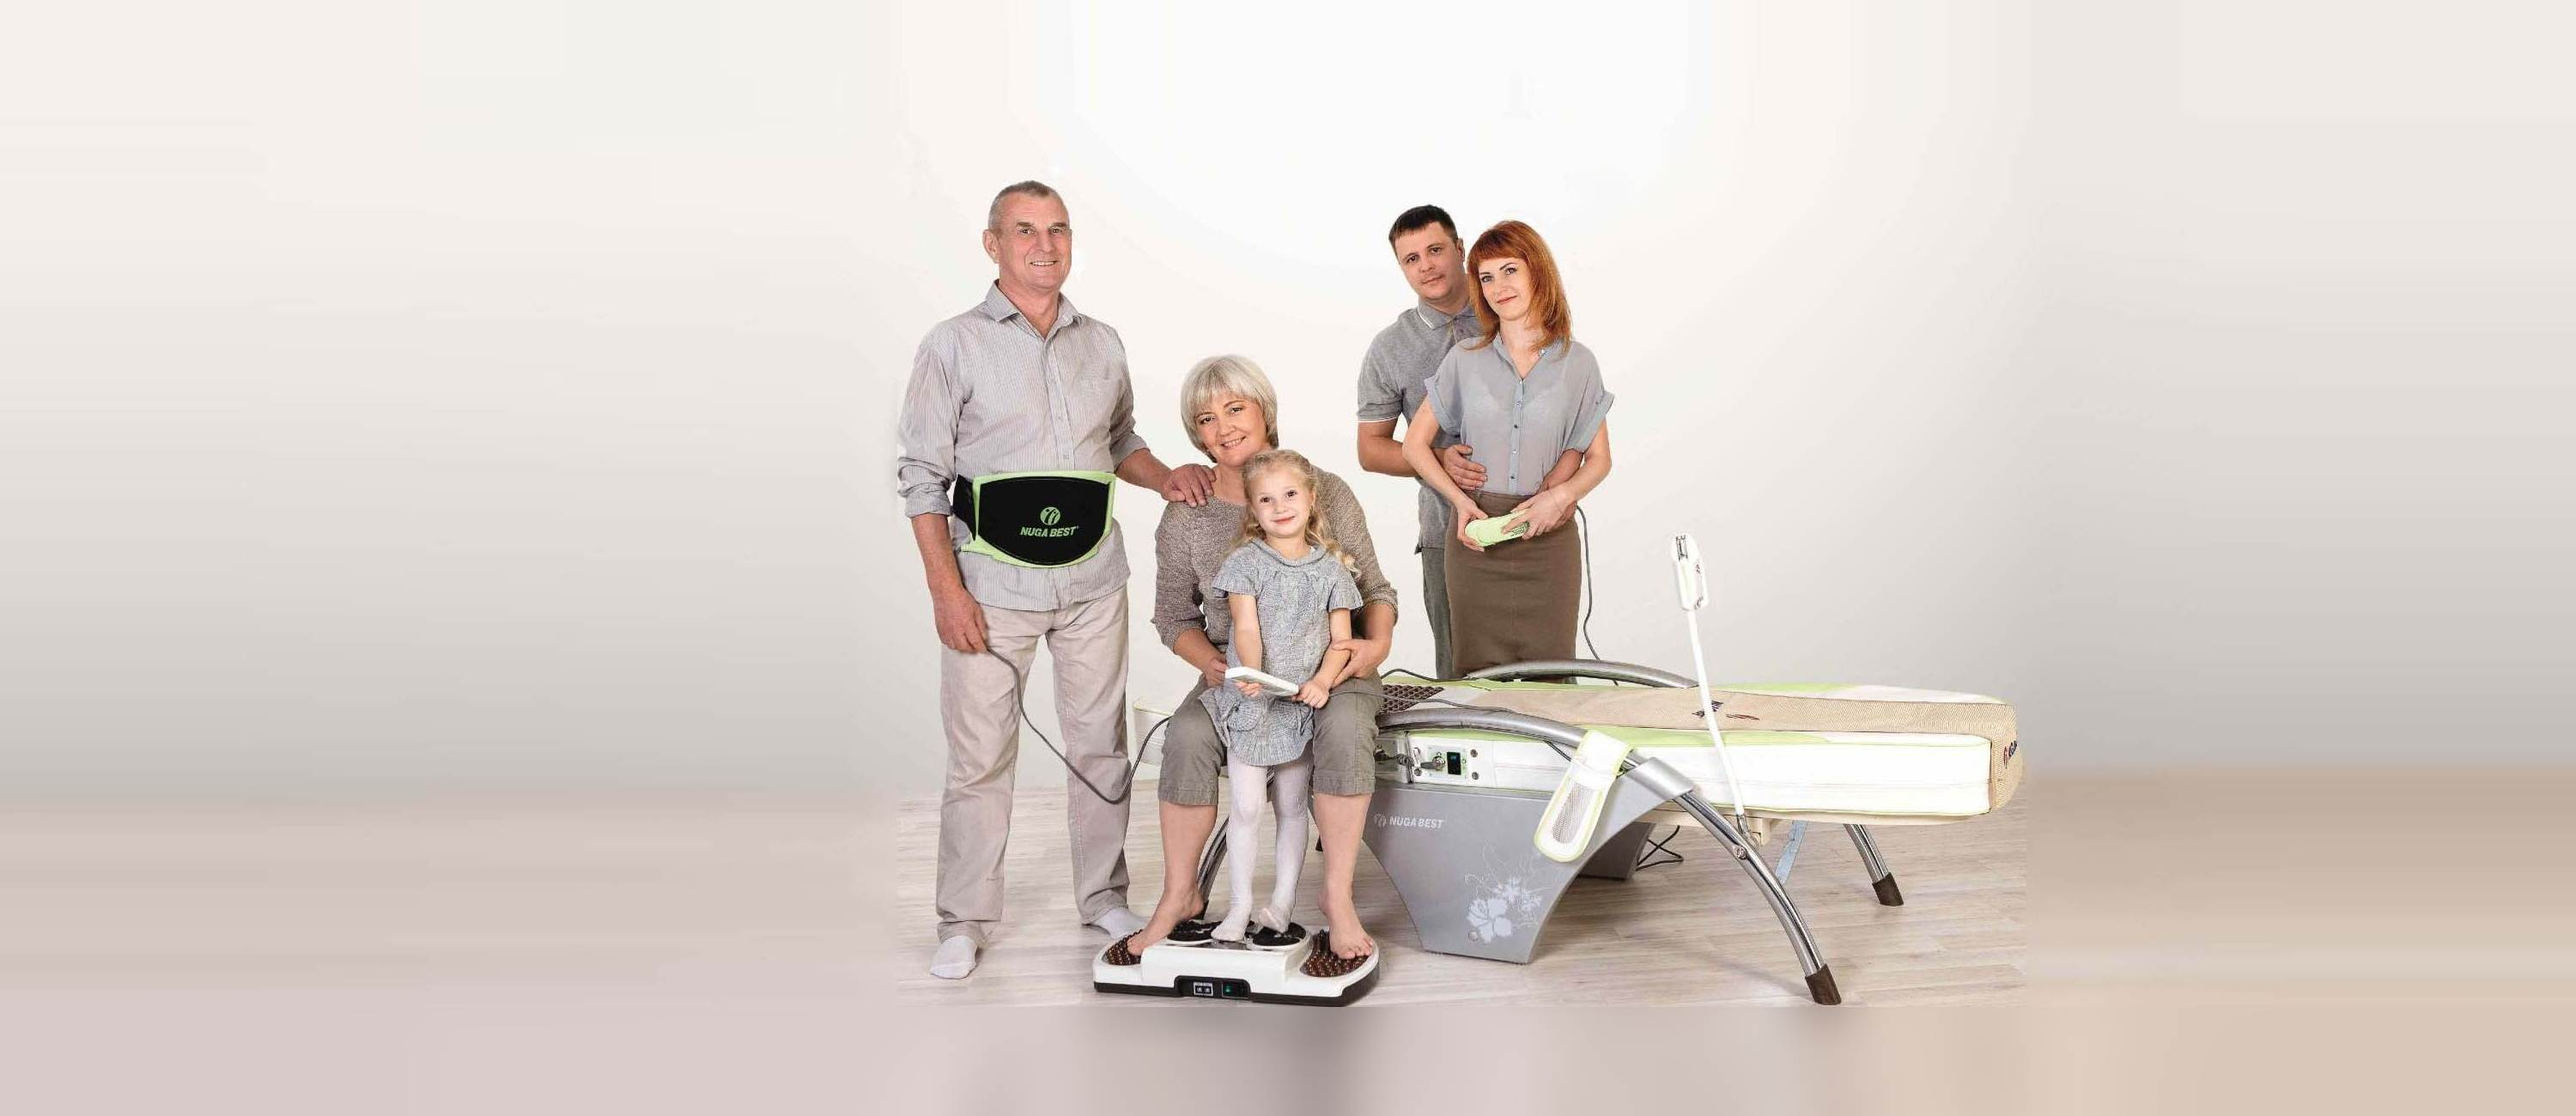
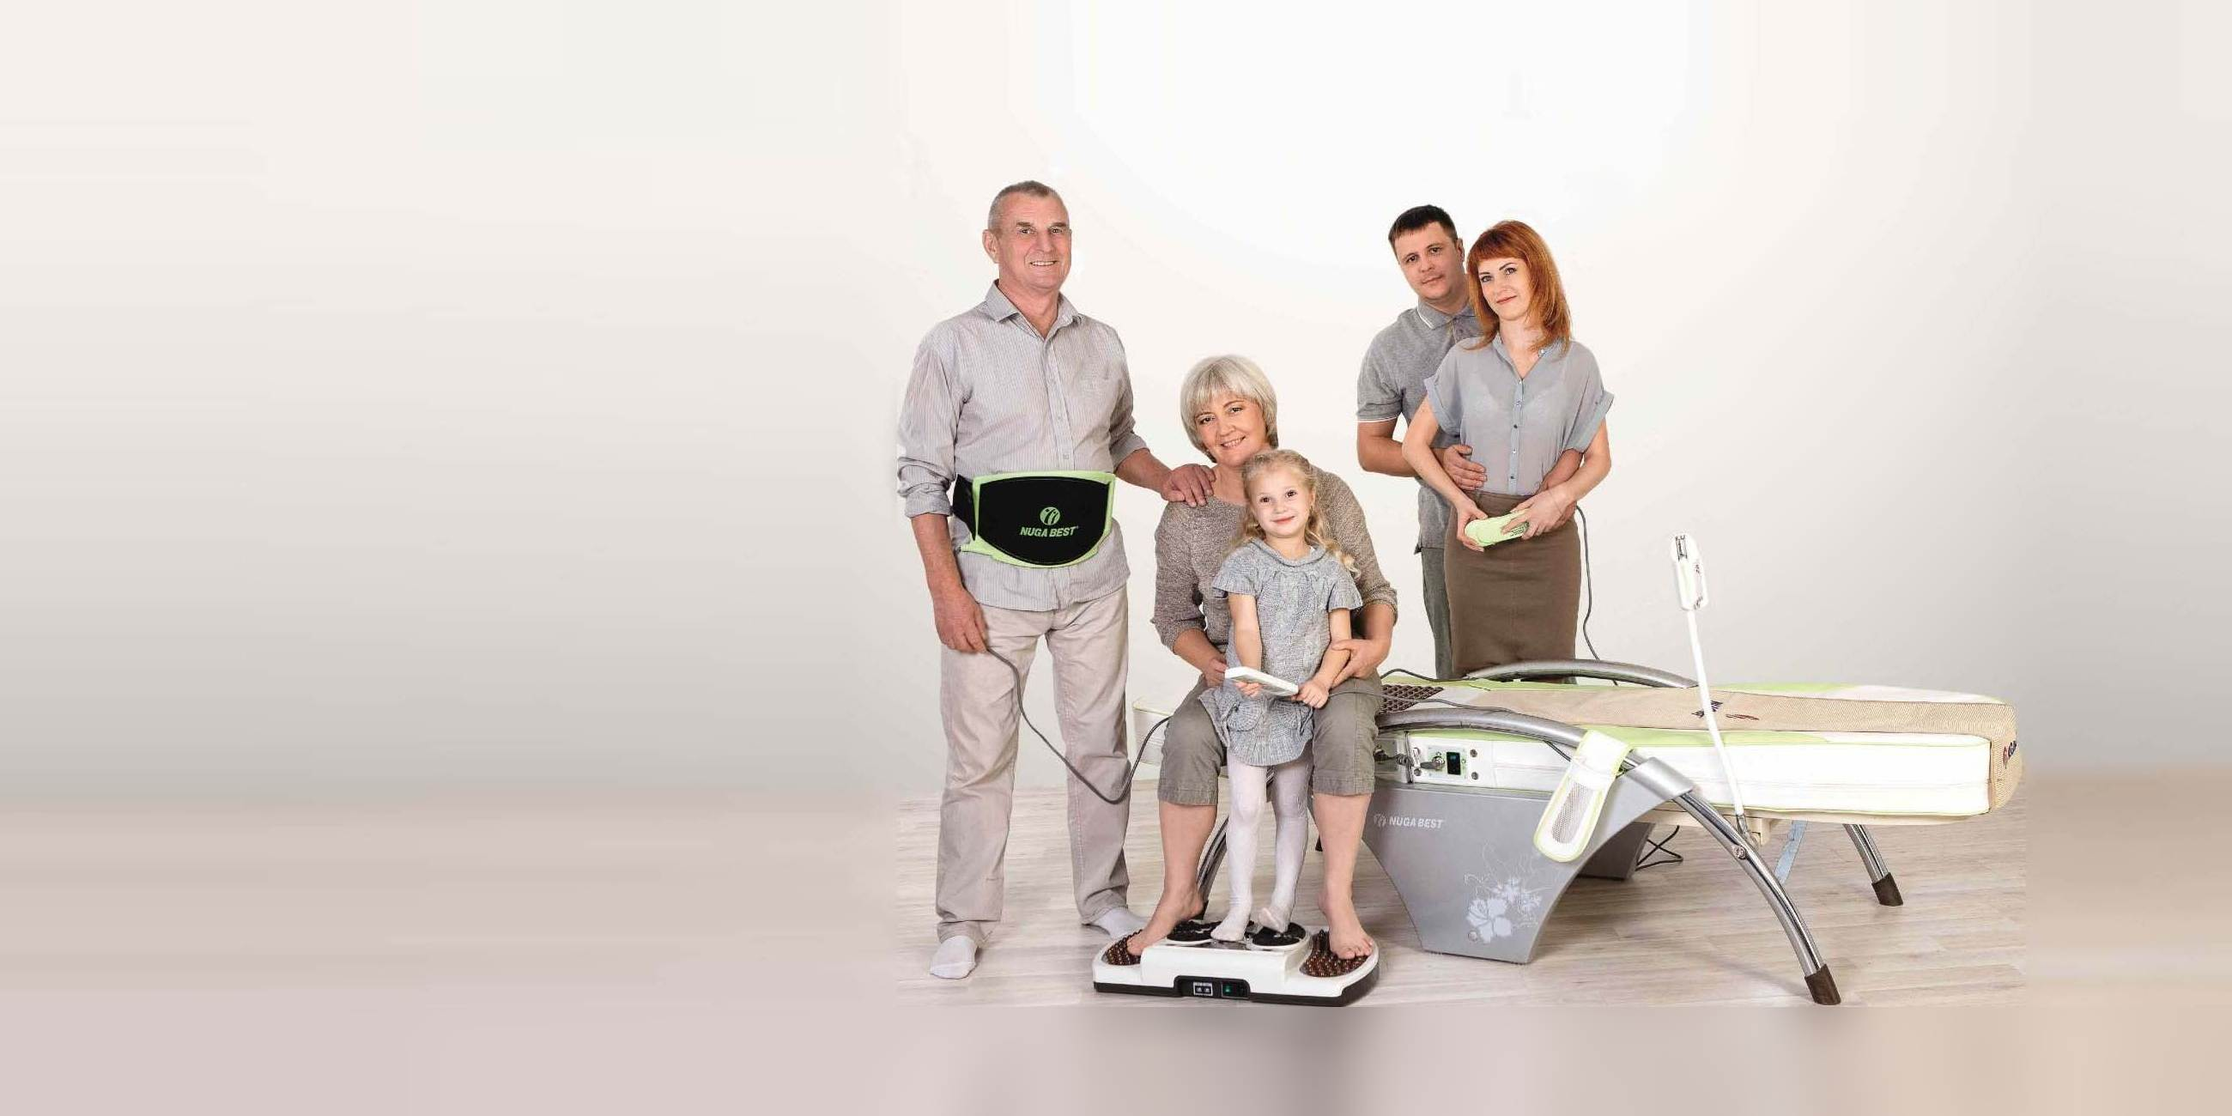
мелочевка

Changed region(s): [[0.3427, 0.1538, 0.9035, 1.0]]

diff --git a/src/sass/layout/_intro.scss b/src/sass/layout/_intro.scss
@@ -1,38 +1,29 @@
-///
-/// Hyperspace by HTML5 UP
-/// html5up.net | @ajlkn
-/// Free for personal and commercial use under the CCA 3.0 license (html5up.net/license)
-///
-
-/* Intro */
-
-	#intro {
-		background-attachment: fixed;
-		background-image:
-						linear-gradient(to top, rgba(46, 49, 65, 0.3), rgba(46, 49, 65, 0.1)),
+#intro {
+	background-attachment: fixed;
+	background-image:	linear-gradient(to top, rgba(46, 49, 65, 0.3), rgba(46, 49, 65, 0.1)),
 						url('assets/images/other/bg3.jpg');
-		background-position: center ;
-		background-repeat: no-repeat;
-		background-size: auto 100% ;
+	background-position: right bottom;
+	background-size: auto 100%;
+	background-repeat: no-repeat;
 
-		text-shadow: 0.05em 0.05em 0.1em rgba(255, 255, 255, 1);
+	text-shadow: 0.05em 0.05em 0.1em rgba(255, 255, 255, 1);
 
 
-		p {
-			font-size: 1.25em;
+	p {
+		font-size: 1.25em;
 
-			@include breakpoint(medium) {
-				br {
-					display: none;
-				}
-			}
-
-			@include breakpoint(small) {
-				font-size: 1em;
+		@include breakpoint(medium) {
+			br {
+				display: none;
 			}
 		}
 
-		@include breakpoint(large) {
-			background-attachment: scroll;
+		@include breakpoint(small) {
+			font-size: 1em;
 		}
 	}
+
+	@include breakpoint(large) {
+		background-attachment: scroll;
+	}
+}

diff --git a/src/html/blocks/intro.html b/src/html/blocks/intro.html
@@ -1,14 +1,12 @@
 <div class="inner" style="text-align: right">
-    <h1>@@who</h1>
-    <span class="intro-phone">
-        <h2>@@phone1</h2>
-        <h2>@@phone2</h2>
-    </span>
+    <h1 style="font-size: 3em; text-align: right">@@nameUpperCase</h1>
+    <div style="font-size: 0.7em; text-align: right">
+        сайт официального дистрибюьтора<br>
+        компании Нуга Бест в Санкт-Петербурге<br>
+        и Ленинградской области
+    </div>
+    <br>
+    <h2>@@phone1</h2>
+    <h2>@@phone2</h2>
     <p>@@slogan</p>
-    <!--<div class="intro-logo">-->
-        <!--<img src="assets/images/@@logo" alt="Логотип Nuga Best">-->
-    <!--</div>-->
-    <ul class="actions">
-        <li><a href="contacts.html#contacts" class="button scrolly">Контакты</a></li>
-    </ul>
 </div>

diff --git a/src/sass/layout/_sidebar.scss b/src/sass/layout/_sidebar.scss
@@ -30,7 +30,6 @@
 	}
 
     .logo {
-        cursor: pointer;
         position: absolute;
         left: 0.6em;
         top: 0.6em;
